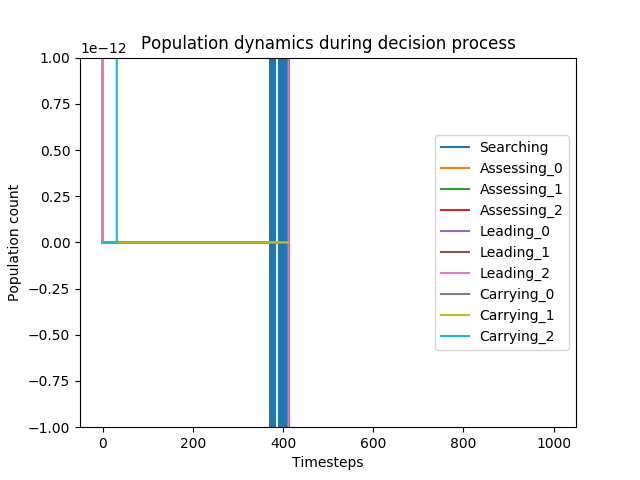
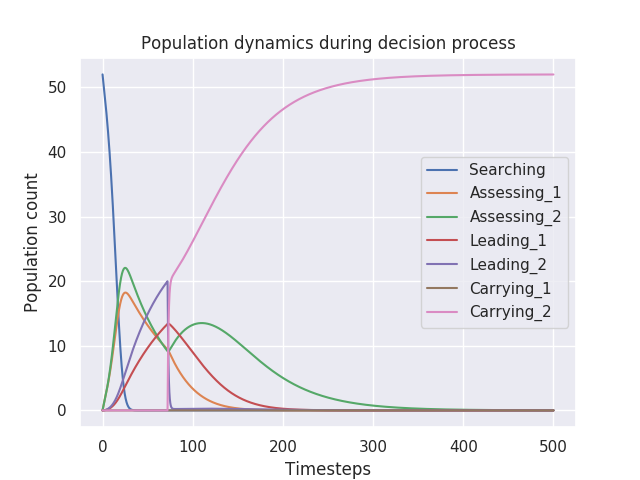
Fixes a bug in alt_ode model

diff --git a/saldyt_2018/alternative_switching.py b/saldyt_2018/alternative_switching.py
@@ -11,7 +11,9 @@ import numpy as np
 
 from collections import defaultdict
 
-T = 10
+sns.set()
+
+T = 20
 M = 3
 N = 208  # SD 99
 p = 0.25 # SD 0.1
@@ -28,12 +30,6 @@ rho[(2, 1)] = 0.008
 
 #alpha = [0.0, 0.015, 0.02]
 phi = [0.0, 0.13, 0.13]
-sigmaA  = [0.0, 0.0195, 0.0195]
-sigmaL  = [0.0, 0.018,  0.018]
-sigmaC  = [0.0, 0.044,  0.044]
-#sigmaA  = [0.0, 0.0,   0.0]
-#sigmaL  = [0.0, 0.0,   0.0]
-#sigmaC  = [0.0, 0.0,   0.0]
 lambdas = [0.0, 0.033, 0.033]
 tau     = 0.001
 
@@ -72,21 +68,20 @@ def simulate(N, alpha, phi, iterations=1000, plot=False, quorum_convergence=Fals
                                      C[j] +
                                      A[j])
                            - C[j] * A[i])
-                      for j in range(len(A)) if j != i)
+                      for j in range(M) if j != i)
                 - alpha[i]*A[i]
                 )
 
     def dLi(Population, i):
         S, A, L, C, P = unpack(Population, M)
-        return (- sigmaL[i] * L[i] +
-               (alpha[i] * A[i]
+        return ((alpha[i] * A[i]
                - Q(Population, i)*L[i]
                - sum(tau*C[j]*L[i] for j in range(M) if j != i)
                ))
 
     def dCi(Population, i):
         S, A, L, C, P = unpack(Population, M)
-        return (Q(Population, i) * L[i] #- sigmaC[i] * C[i] -
+        return (Q(Population, i) * L[i]
                    - sum(tau*C[j]*C[i] for j in range(M) if j != i)
                    )
 
@@ -118,6 +113,7 @@ def simulate(N, alpha, phi, iterations=1000, plot=False, quorum_convergence=Fals
         for i in range(1 + M * 4):
             if i == 0:
                 label = 'Searching'
+                index = None
             else:
                 label = ['Assessing', 'Leading', 'Carrying', 'Passive'][(i - 1) // M]
                 index = (i - 1) % M
@@ -137,7 +133,7 @@ def simulate(N, alpha, phi, iterations=1000, plot=False, quorum_convergence=Fals
                 if 'Passive' in label and plot:
                     plt.plot(ts, pop, label=label)
             else:
-                if 'Passive' not in label and plot:
+                if 'Passive' not in label and plot and index != 0:
                     plt.plot(ts, pop, label=label)
         if plot:
             plt.legend(loc='center right', bbox_to_anchor=(1, 0.5))
@@ -163,38 +159,38 @@ betas  = alphas
 phis   = [0.013]
 #phis   = np.linspace(0.0, 0.1, 21)
 
-#simulate(208, [0.0, 0.015, 0.02, 0.03], [0.0, 0.013, 0.013, 0.013], True, iterations=5000)
-#simulate(1000, [0.0, 0.015, 0.015, 0.015], [0.0, 0.013, 0.013, 0.013], True, iterations=1000)
-#simulate(1000, [0.0, 0.3, 0.25, 0.9], [0.0, 0.1, 0.1, 0.05], True, iterations=1000)
-for N in Ns:
-    for alpha in alphas:
-        for beta in betas:
-            for phi_a in phis:
-                for phi_b in phis:
-                    add = lambda k, v : data[k].append(round(v, 4))
-                    data['N'].append(N)
-                    add('alpha', alpha)
-                    add('beta', beta)
-                    add('phi_a', phi_a)
-                    add('phi_b', phi_b)
-                    weights = [0.0, alpha, beta]
-                    phi     = [0.0, phi_a, phi_b]
-                    data['iterations'].append(simulate(N, weights, phi, iterations=400))
-
-#print(data)
-original_data = pandas.DataFrame(data)
-print(original_data)
-#data = original_data.pivot_table(values='iterations', index='beta', columns=['alpha'])
-#sns.heatmap(data, yticklabels=True, xticklabels=True)
-#plt.title('Convergence times for nest quality and threshold')
-#plt.xlabel('Alpha')
-#plt.ylabel('Beta')
-#plt.savefig('agent_convergence_times.png')
-#plt.show()
-data = original_data.pivot_table(values='iterations', index='alpha', columns=['beta'])
-sns.heatmap(data)#, yticklabels=True)
-plt.title('Convergence times for nest quality and threshold')
-plt.xlabel('alpha')
-plt.ylabel('beta')
-plt.savefig('quality_ode_convergence_times.png')
-plt.show()
+simulate(208, [0.0, 0.015, 0.02], [0.0, 0.013, 0.013], plot=True, iterations=500)
+# #simulate(1000, [0.0, 0.015, 0.015, 0.015], [0.0, 0.013, 0.013, 0.013], True, iterations=1000)
+# #simulate(1000, [0.0, 0.3, 0.25, 0.9], [0.0, 0.1, 0.1, 0.05], True, iterations=1000)
+# for N in Ns:
+#     for alpha in alphas:
+#         for beta in betas:
+#             for phi_a in phis:
+#                 for phi_b in phis:
+#                     add = lambda k, v : data[k].append(round(v, 4))
+#                     data['N'].append(N)
+#                     add('alpha', alpha)
+#                     add('beta', beta)
+#                     add('phi_a', phi_a)
+#                     add('phi_b', phi_b)
+#                     weights = [0.0, alpha, beta]
+#                     phi     = [0.0, phi_a, phi_b]
+#                     data['iterations'].append(simulate(N, weights, phi, iterations=400))
+#
+# #print(data)
+# original_data = pandas.DataFrame(data)
+# print(original_data)
+# #data = original_data.pivot_table(values='iterations', index='beta', columns=['alpha'])
+# #sns.heatmap(data, yticklabels=True, xticklabels=True)
+# #plt.title('Convergence times for nest quality and threshold')
+# #plt.xlabel('Alpha')
+# #plt.ylabel('Beta')
+# #plt.savefig('agent_convergence_times.png')
+# #plt.show()
+# data = original_data.pivot_table(values='iterations', index='alpha', columns=['beta'])
+# sns.heatmap(data)#, yticklabels=True)
+# plt.title('Convergence times for nest quality and threshold')
+# plt.xlabel('alpha')
+# plt.ylabel('beta')
+# plt.savefig('quality_ode_convergence_times.png')
+# plt.show()
